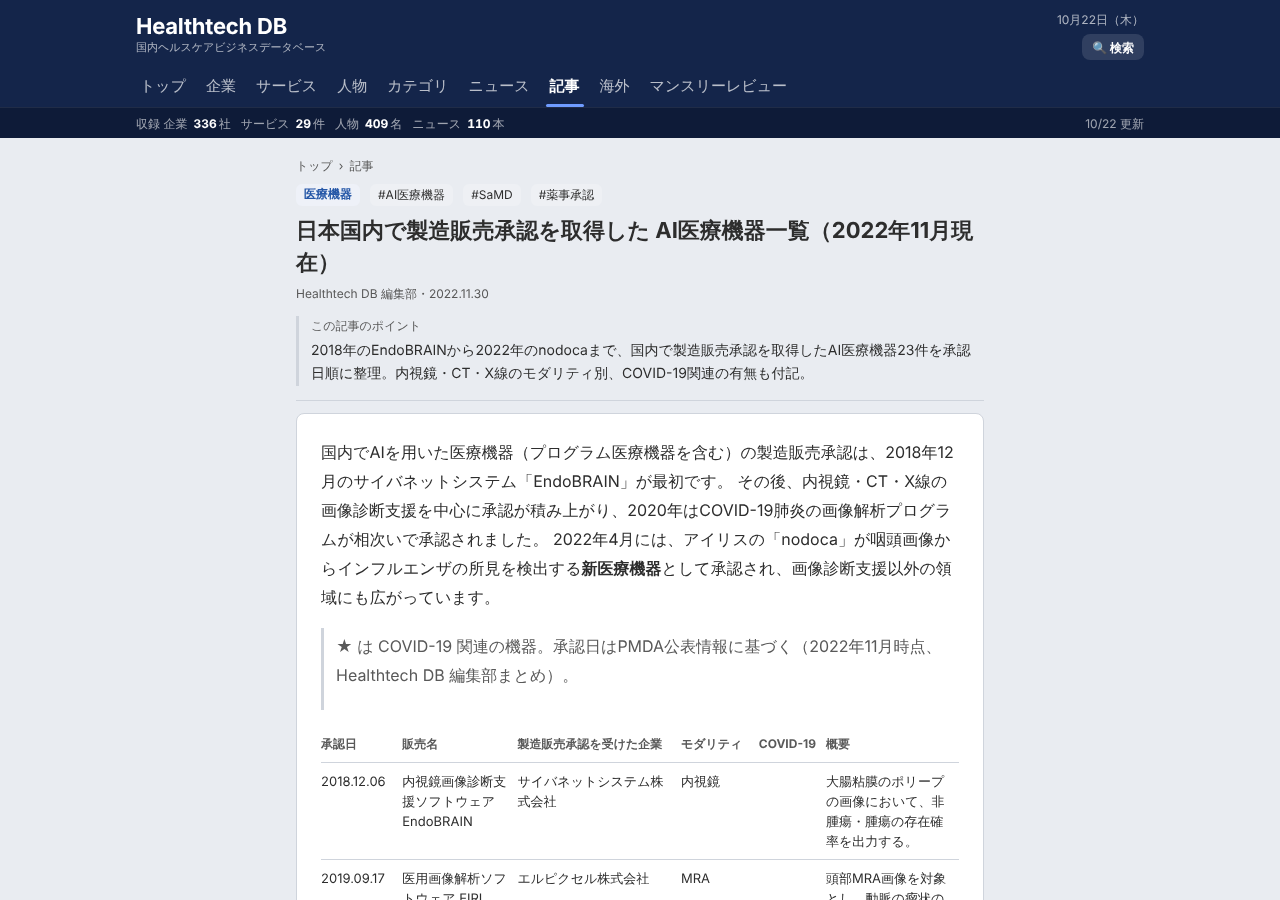
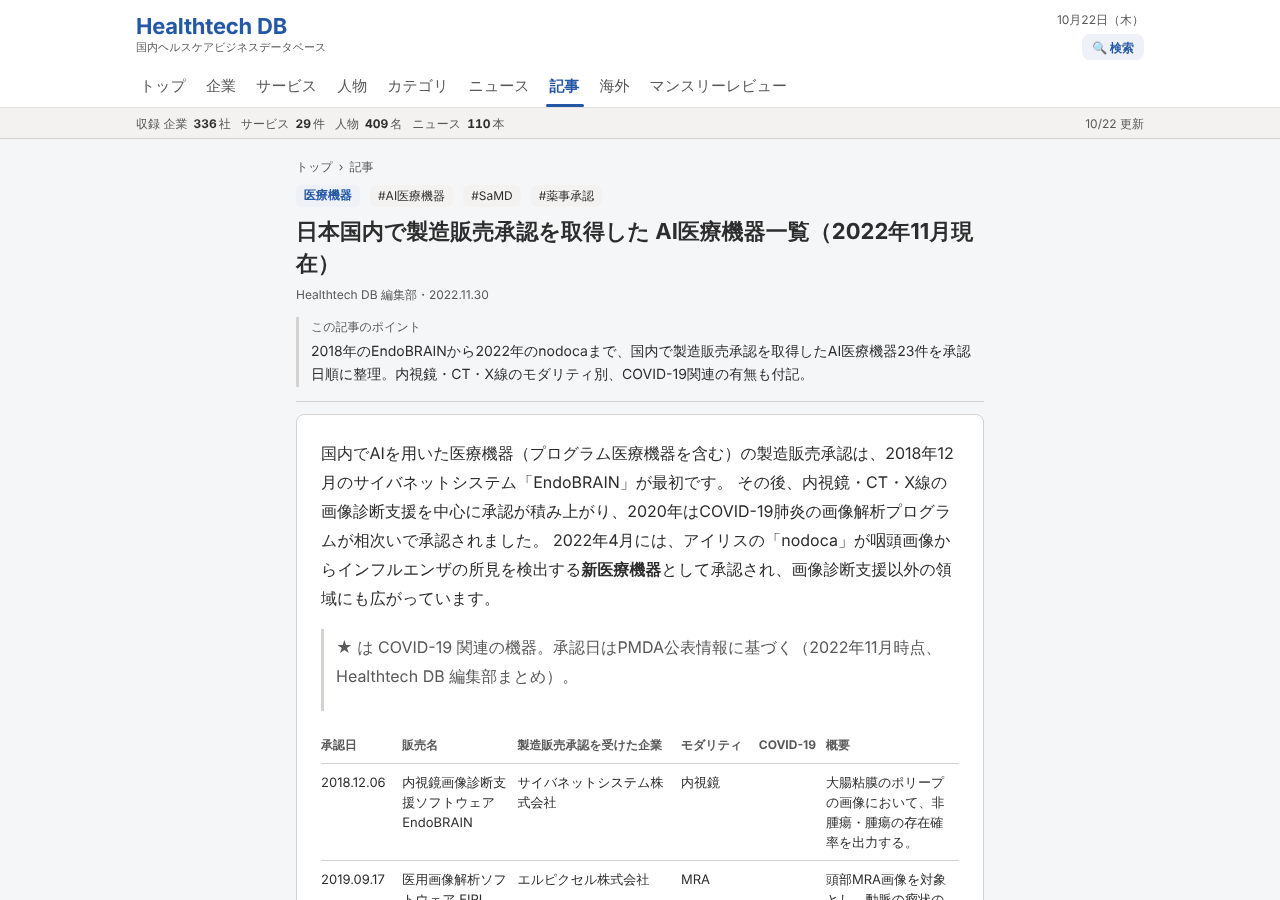
紺のヘッダーを取りやめ、Indeed 型（白ヘッダー・薄グレーの地・白カード・青1色）に戻す
Claude-Session: https://claude.ai/code/session_0119Ai9hj5RXsdgrEx7y6FYW

diff --git a/src/app/globals.css b/src/app/globals.css
@@ -311,31 +311,4 @@ body { font-size: 15px; }
 .tabbar a[aria-current='page'] { color: var(--brand); }
 @media (max-width: 560px) { .prose { padding: 16px; } }
 
-/* 「明るすぎる」への対応: STARTUP DB のような紺のヘッダーと、少し沈んだ地 */
-:root {
-  --navy: #14254a;
-  --navy-2: #0e1b38;
-  --bg: #e9ecf1;
-  --line: #cfd4dc;
-  --surface: #eef0f4;
-}
-@media (prefers-color-scheme: dark) {
-  :root:not([data-theme='light']) { --navy: #0f1a33; --navy-2: #0a1226; --bg: #15171b; --surface: #2a2d33; --line: #3a3f48; }
-}
-:root[data-theme='dark'] { --navy: #0f1a33; --navy-2: #0a1226; --bg: #15171b; --surface: #2a2d33; --line: #3a3f48; }
-.site-header { background: var(--navy); border-bottom: 0; }
-.brand-name { color: #ffffff; }
-.brand-sub, .mast-date { color: rgba(255, 255, 255, 0.65); }
-.search-pill { background: rgba(255, 255, 255, 0.12); color: #ffffff; }
-.search-pill:hover { background: rgba(255, 255, 255, 0.2); }
-.tab { color: rgba(255, 255, 255, 0.7); }
-.tab:hover { color: #ffffff; }
-.tab[aria-current='page'] { color: #ffffff; }
-.tab[aria-current='page']::after { background: #6f9cff; }
-.ticker { background: var(--navy-2); border-top: 1px solid rgba(255, 255, 255, 0.08); }
-.ticker-in, .ticker-in span { color: rgba(255, 255, 255, 0.6); }
-.ticker-in b { color: #ffffff; }
-.site-footer { background: var(--navy); color: rgba(255, 255, 255, 0.6); border-top: 0; }
-.site-footer h4 { color: #ffffff; }
-.site-footer a:hover { color: #ffffff; }
 .tile.wide { aspect-ratio: 5 / 1; }

diff --git a/src/app/layout.tsx b/src/app/layout.tsx
@@ -11,7 +11,7 @@ export const metadata: Metadata = {
   metadataBase: new URL('https://healthtech-db.com'),
   openGraph: { type: 'website', siteName: 'Healthtech DB', locale: 'ja_JP' },
 };
-export const viewport: Viewport = { themeColor: '#14254a', width: 'device-width', initialScale: 1, viewportFit: 'cover' };
+export const viewport: Viewport = { themeColor: '#ffffff', width: 'device-width', initialScale: 1, viewportFit: 'cover' };
 
 export default function RootLayout({ children }: { children: React.ReactNode }) {
   const news = getNews();

diff --git a/DESIGN.md b/DESIGN.md
@@ -1,13 +1,12 @@
 # Healthtech DB — DESIGN.md
 
-> **現行（2026-10-22 最新）: STARTUP DB / Indeed 型。** 加藤さんの依頼で、カラフル配色 →「STARTUP DB やインディードのような色合い」→「明るすぎる」の順に調整した結果。
+> **現行（2026-10-22 最新）: STARTUP DB / Indeed 型。** 加藤さんの依頼で、カラフル配色から変更。
 >
-> - 紺のヘッダー（`#14254A`、下の帯は `#0E1B38`）に白文字。タブは白文字＋選択中だけ青い下線。
-> - 地は少し沈んだグレー `#E9ECF1`。一覧は白・1px枠（`#CFD4DC`）・角丸8のカードを 10px 間隔で並べる。影はホバー時だけ。
-> - 基調色は Indeed ブルー `#2557A7` の1色（ホバー `#164081`、薄青 `#EEF1F8`）。見出しリンク・主ボタン・分類タグ（薄青地に青文字）に使う。
-> - 頭文字タイルはグレーの四角（ロゴ枠）。カテゴリやタブに個別の色は持たせない。
-> - 文字 `#2D2D2D`、補助 `#595959`。フッターも紺。
-> - トークンは医師ビジネスマッチング MVP と共通。レイアウト（720px の1カラム、罫線・タブ・検索バーの形）は HealthBiz News と共通。
+> - **基調色**: Indeed ブルー `#2557A7` の1色のみ（ホバー `#164081`、薄青 `#EEF1F8`）。タブは白いヘッダーに文字だけ、選択中は青い文字＋青い下線。
+> - **背景と一覧**: ページの地は薄いグレー `#F5F6F8`。白地・1px枠（`#D4D2D0`）・角丸8のカードを 10px 間隔で並べる。影はマウスを乗せたときだけ。
+> - **カテゴリとロゴ**: カテゴリは薄い青地に青文字の小タグ。頭文字タイルはグレーの四角（Indeed の企業ロゴ枠の形）。
+> - 文字 `#2D2D2D`、補助 `#595959`。トークンは医師ビジネスマッチング MVP と共通。レイアウト（720px の1カラム）は HealthBiz News と共通。
+> - 紺のヘッダーは使わない（2026-10-22 に一度試して取りやめ）。
 >
 > 以下は経緯として残している過去の版の記述。色については上の現行ルールが優先する。
 
